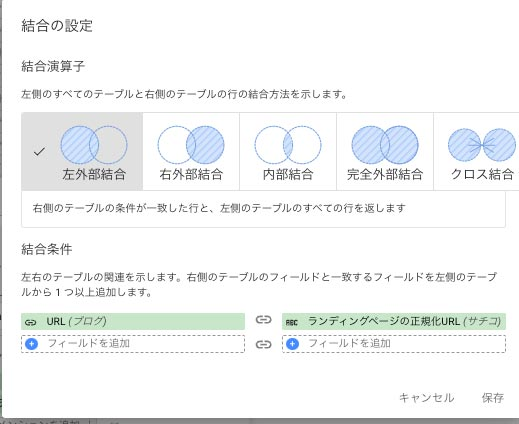
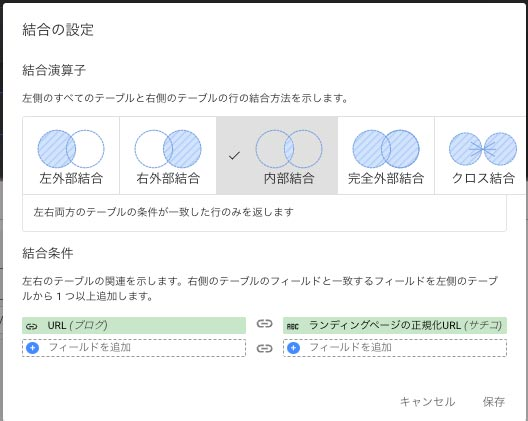
Modified Looker studio post.
Corrected this content.

Changed region(s): [[0.0, 0.0, 1.0, 1.0], [0.0308, 0.5558, 0.1541, 0.6176]]

diff --git a/content/blog/blogs/entry500.md b/content/blog/blogs/entry500.md
@@ -188,17 +188,7 @@ function fetchPageDetails(url) {
   try {
     var response = UrlFetchApp.fetch(url);
     var html = response.getContentText();
-
-    // headタグ内の<title>を取得
-    var headContent = html.match(/<head[^>]*>([\s\S]*?)<\/head>/i);
     var title = 'タイトルを取得できませんでした';
-    if (headContent) {
-      var titleMatch = headContent[1].match(/<title[^>]*>(.*?)<\/title>/i);
-      if (titleMatch) {
-        title = titleMatch[1];
-      }
-    }
-
     var publishDate = '';
     var maintenanceDate = '';
     var genre = '';
@@ -210,11 +200,12 @@ function fetchPageDetails(url) {
       if(data['@type'] === 'BlogPosting') {
         title = data.headline;
         publishDate = data.datePublished;
-        maintenanceDate = data.maintenanceDate;
+        maintenanceDate = data.dateModified;
+        
       }
-      // 3番目のパンくずが記事のジャンル
+      // 2番目のパンくずが記事のジャンル
       if(data['@type'] === 'BreadcrumbList') {
-        genre = data['itemListElement'][2]['item']['name'];
+        genre = data['itemListElement'][1]['item']['name'];
       }
       // FAQの構造化データを持っていた場合
       if(data['@type'] === 'FAQPage') {
@@ -231,6 +222,19 @@ function fetchPageDetails(url) {
   } catch (e) {
     return 'エラーが発生しました: ' + e.message;
   }
+}
+```
+ヘッダーとフッターも足します。
+```js:title=GAS
+function fetchSitemap() {
+  ...
+  sheet.getRange(1, 6).setValue('FAQ');
+  ...
+  urls.forEach(function(urlElement) {
+    ...
+    sheet.getRange(row, 6).setValue(getPageInfo.hasFAQPage);
+    ...
+  })
 }
 ```
 
@@ -351,7 +355,10 @@ WHEN ENDS_WITH(REGEXP_REPLACE(Landing Page, "[?#].*$", ""), "/") THEN REGEXP_REP
 ELSE CONCAT(REGEXP_REPLACE(Landing Page, "[?#].*$", ""), "/")
 END
 ```
-分析したい Search Console のデータはスプシに書き出したブログ記事だけなので左外部結合をします。結合条件は スプシの URL Search Console の ランディングページの正規化URL を選択します。
+分析したい Search Console のデータはスプシに書き出したブログ記事と一致した、検索に引っかかっている記事だけなので *内部結合* で結合を選択します。<br>
+スプシと Search Console から一致しないものはすべて排除します。
+
+結合条件は スプシの URL Search Console の ランディングページの正規化URL を選択します。
 
 ![Looker Studio 結合条件は スプシの URL Search Console の ランディングページの正規化URL を選択](./images/2022/05/entry500-20.jpg)
 
@@ -365,32 +372,11 @@ END
 
 保存。
 
-### 出力する表でデータを加工
-結合した Search Console のデータを持っていない場合は Null が返ってくるので、グラフ側の計算フィールドを使って 0 出力するようにします。
+### 出力する表でデータをセット
+結合した Search Console のデータを持っていない場合は Null が返ってくるのでその場合は空をセットします。
 
-指標から計算フィールドを追加します。
+![Looker Studio Search Console クリック率は累計されると困るので平均値で出力](./images/2022/05/entry500-35.jpg)
 
-Impressions を出力するために、「インプ数」という計算フィールドを作成します。
-
-```SQL:title=インプ数
-IFNULL(Impressions,0)
-```
-ＣLICK数を作。
-```SQL:title=CLICK数
-IFNULL(Url Clicks,0)
-```
-クリック率は累計されると困るので平均値で出力します。
-
-```SQL:title=クリック率
-IFNULL(URL CTR,0)
-```
-
-![Looker Studio Search Console クリック率は累計されると困るので平均値で出力](./images/2022/05/entry500-21.jpg)
-
-順位も同様に累計されると困るので平均値で出力。
-```SQL:title=順位
-IFNULL(Average Position,0)
-```
 
 ### コントロールを追加して日付で絞り込めるようにする
 日付ごとに絞り込めるように、コントロールの期間設定を追加します。
@@ -419,11 +405,9 @@ IFNULL(Average Position,0)
 | URL CTR | CTR | 平均値 |
 | Average Position | 平均順位 | 平均値 |
 
-スパークラインをDATEに設定します。
-![Looker Studio スパークラインをDATEに設定](./images/2022/05/entry500-29.jpg)
-
-小さいですが特に総クリック数に波があることが分かります。私のブログは土日あまり読まれることがないので4つほど谷ができています。
 ![Looker Studio スパークラインをDATEに設定](./images/2022/05/entry500-28.jpg)
+
+スクショのようにスパークラインをDATEに設定すると、lookerstudioを再読込するとエラーで表示されなることがあるので、折れ線グラフなどを設置することをおすすめします。
 
 ## ページタイトルでの検索できるようにする
 タイトルで記事の指標を絞り込めるようにします。コントロールからプルダウンリストを追加します。「ブログとsearch console統合」のディメンションにタイトルがない場合は先に追加しておきます。
